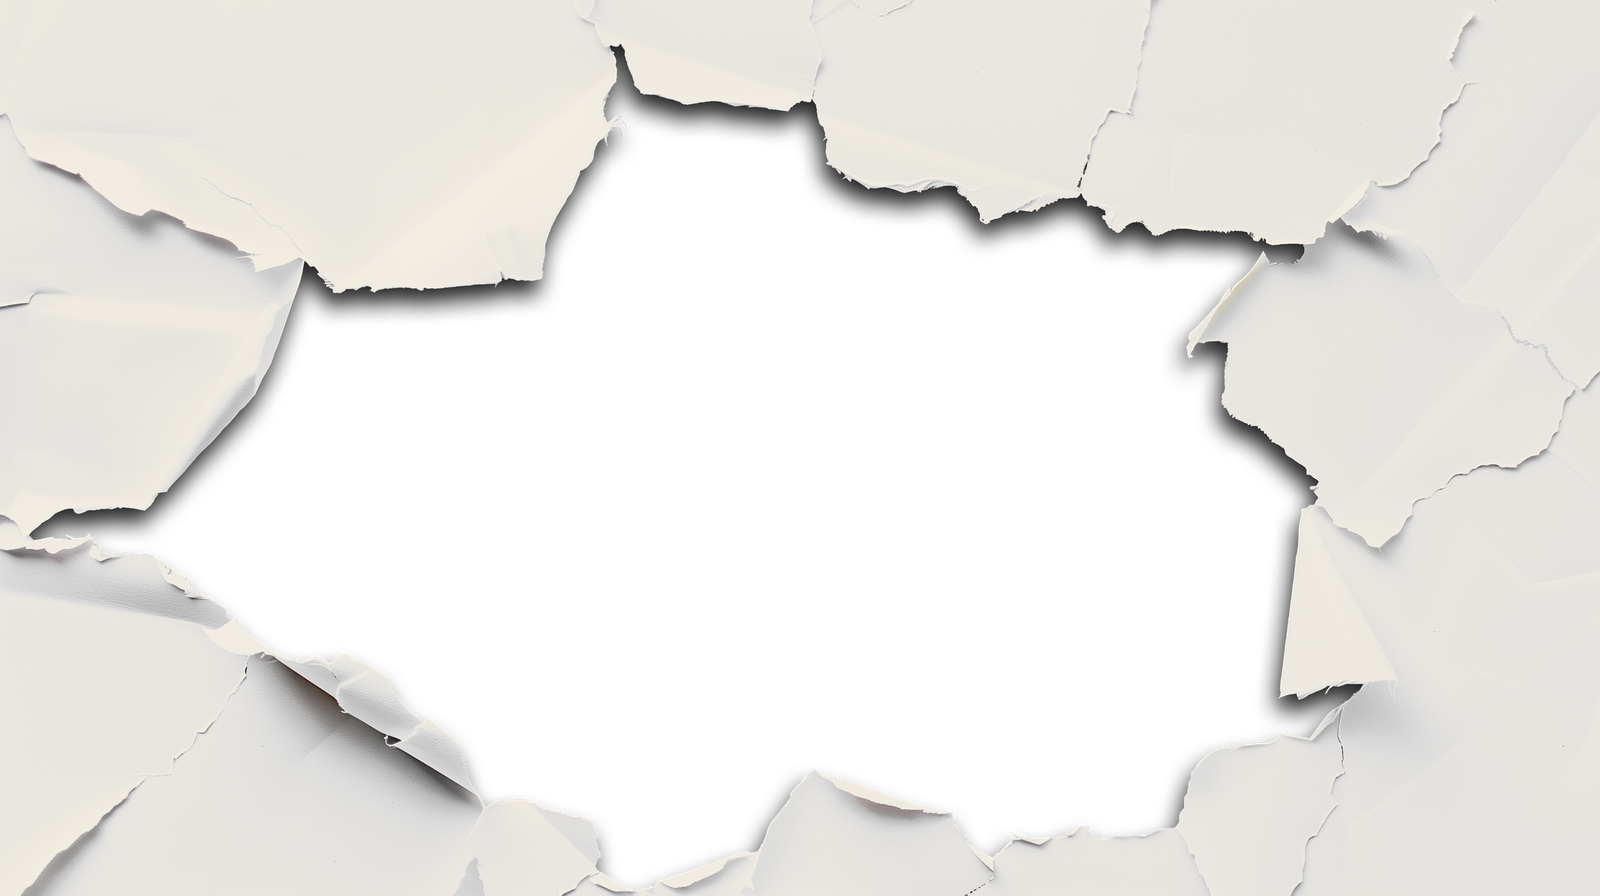
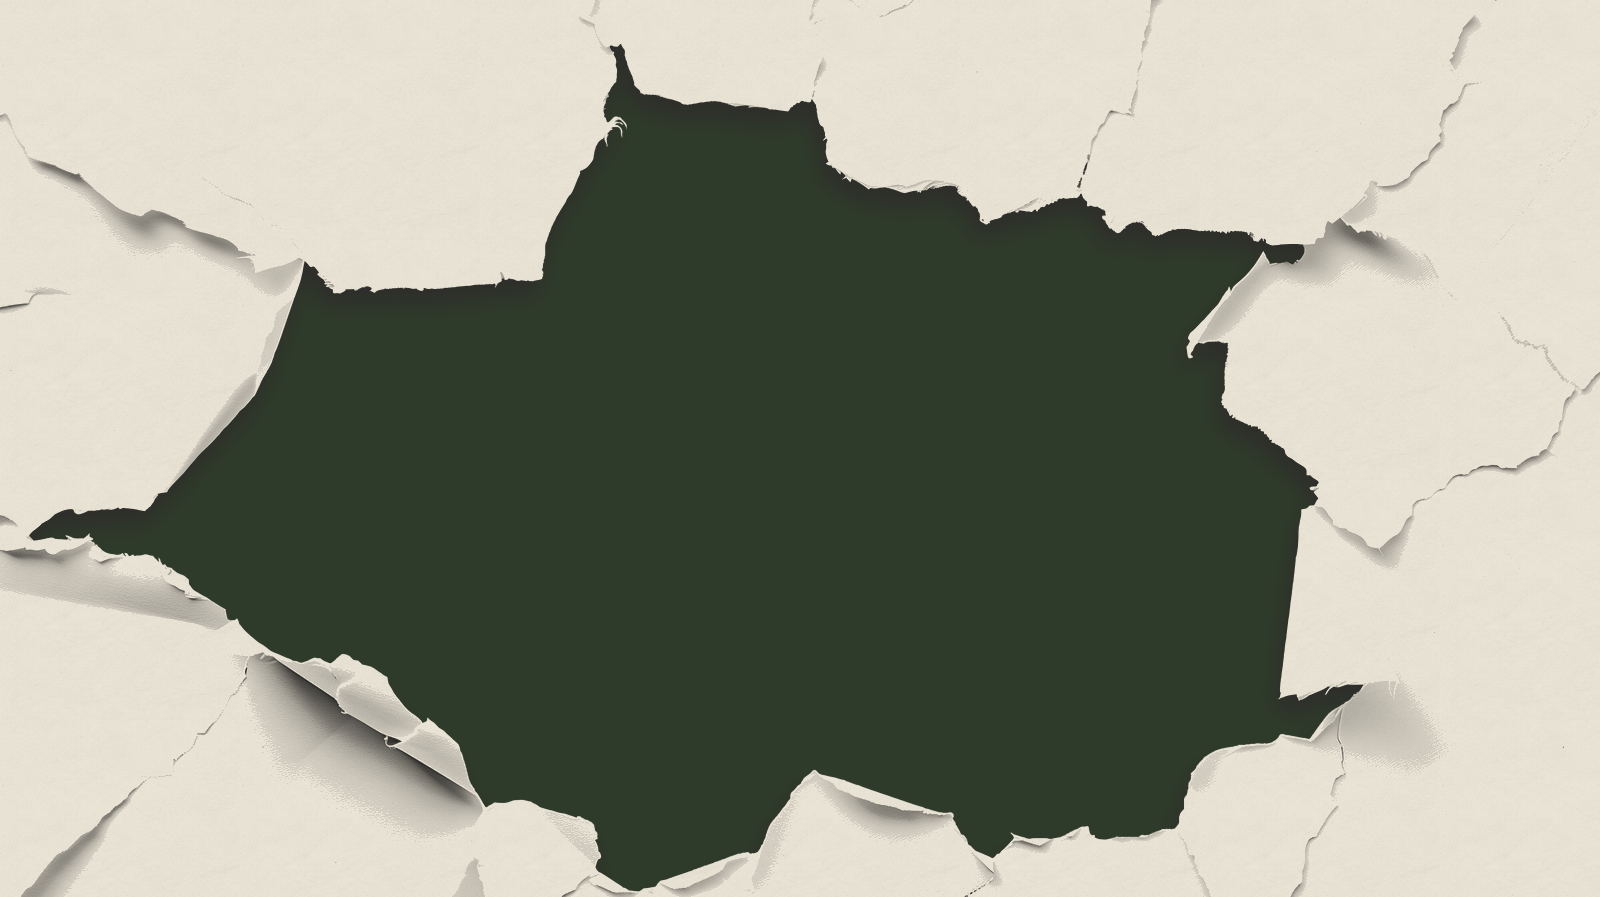
Match punch paper to page cream and bake solid sage into the tear.

diff --git a/src/styles/global.css b/src/styles/global.css
@@ -3652,13 +3652,13 @@ html.scroll-reveal-enabled .scroll-reveal--delay-2 {
   position: relative;
   width: min(100%, 26rem);
   margin-inline: auto;
-  aspect-ratio: 1600 / 896;
+  aspect-ratio: 1600 / 897;
 }
 
 .home-facts__fill {
   position: absolute;
   z-index: 1;
-  inset: 16% 10%;
+  inset: 18% 12%;
   display: flex;
   flex-direction: column;
   align-items: center;
@@ -3666,7 +3666,7 @@ html.scroll-reveal-enabled .scroll-reveal--delay-2 {
   gap: 0.65rem;
   padding: 0.85rem 1.1rem;
   border-radius: 42% / 48%;
-  background: theme('colors.sage.dark');
+  background: transparent;
   text-align: center;
 }
 
